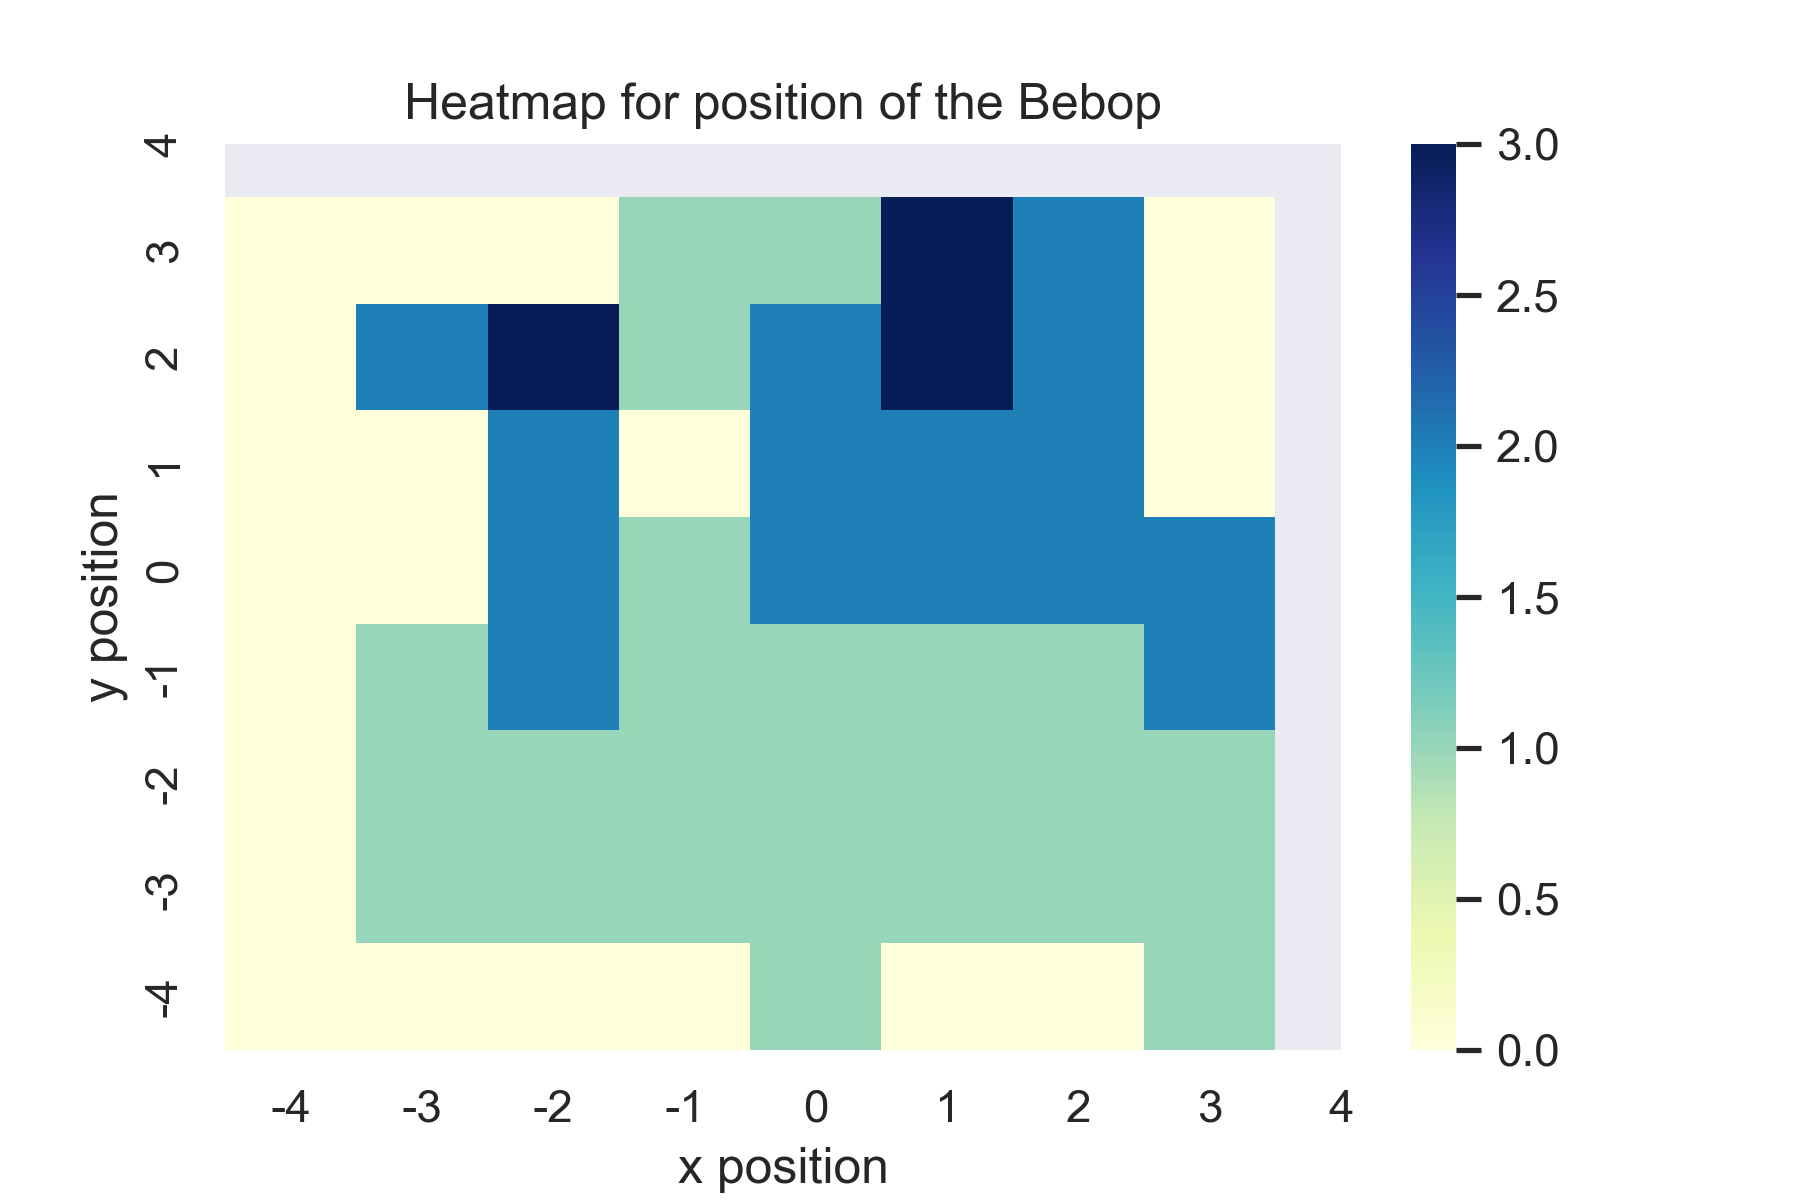
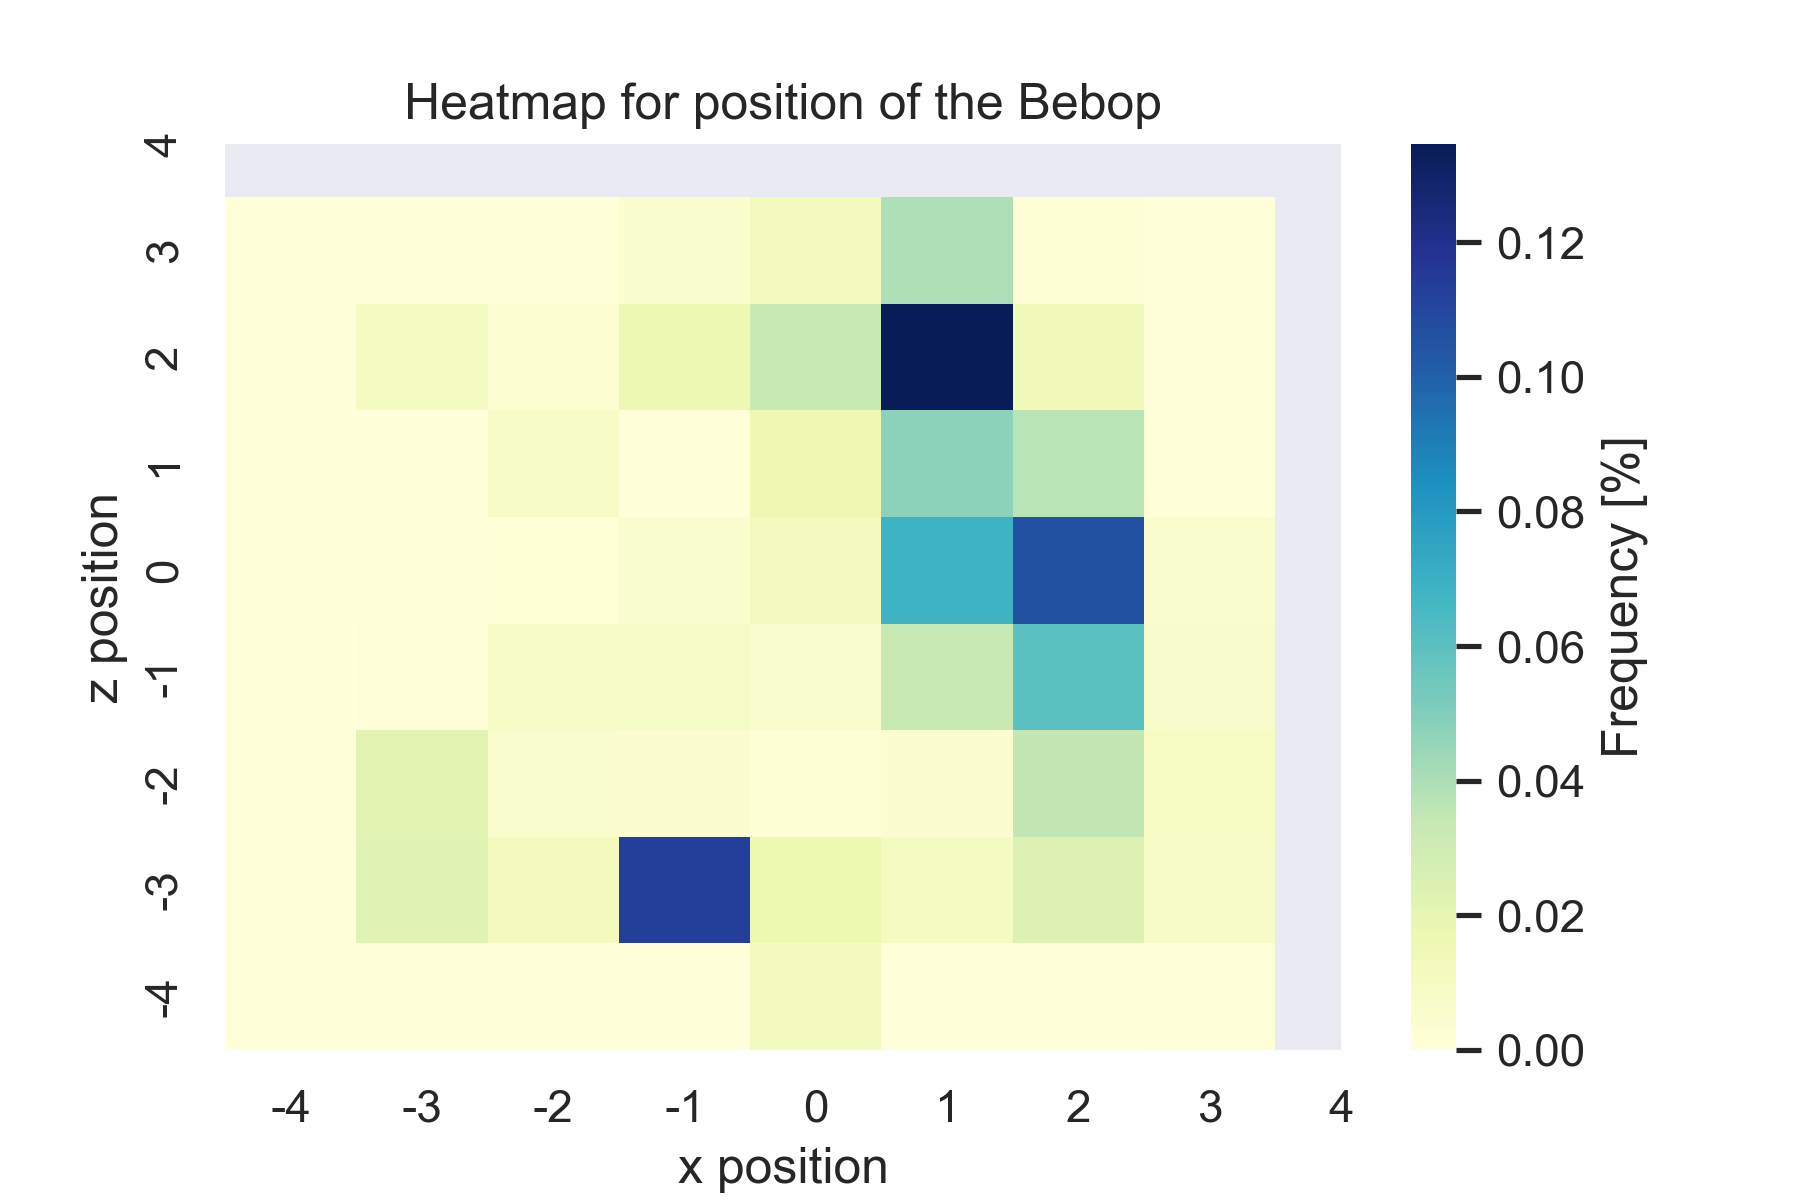
update axis labels and make position as frequency of total

diff --git a/Report code/plotTrajectory_V5.py b/Report code/plotTrajectory_V5.py
@@ -45,11 +45,13 @@ def discritizer_pos(pos_x,pos_z):
         m_indx = 0
         for m in range(-3,5):
             for i in range(len(pos_x)):
-                if (pos_x[i] < n and pos_z[i] < m) and (pos_x[i] > n-1 and pos_z[i] > m-1):
-                    grid_XY[n_indx,m_indx] = grid_XY[n,m] + 1
+                if (pos_x[i] < n and pos_z[i] < m) and (pos_x[i] >= n-1 and pos_z[i] >= m-1):
+                    grid_XY[n_indx,m_indx] = grid_XY[n_indx,m_indx] + 1
             m_indx = m_indx+1
         n_indx= n_indx+1
-
+    for n_indx in range(0,8):
+        for m_indx in range(0,8):
+            grid_XY[n_indx,m_indx] = grid_XY[n_indx,m_indx] / len(pos_x)
     return grid_XY            
 
 def parallel_handler(pos_x, pos_z, time, n, m):
@@ -66,7 +68,7 @@ def parallel_handler(pos_x, pos_z, time, n, m):
             velo = velo + velocity
             grid_count +=  1
     if velo!=0:
-        velo_AVG = velo / grid_count
+        velo_AVG = (velo / grid_count)*100
     else:
         velo_AVG = 0
     return  velo_AVG
@@ -107,7 +109,7 @@ def discritizer_vel(pos_x, pos_z, time):
 
 def main():
     #settings
-    save_on = False
+    save_on = True
     plot_on = True
     #read data
     pos_x, pos_z, time = load_position("group_2.csv")
@@ -131,11 +133,11 @@ def main():
         x_axis_labels = [-4,-3,-2,-1,0,1,2,3,4]
         y_axis_labels = [-4,-3,-2,-1,0,1,2,3,4]    
         plt.figure()   
-        ax = sns.heatmap(data, cmap="YlGnBu", xticklabels=x_axis_labels, yticklabels=y_axis_labels)
+        ax = sns.heatmap(data, cmap="YlGnBu", xticklabels=x_axis_labels, yticklabels=y_axis_labels,  cbar_kws={'label': 'Frequency [%]'})
         ax.invert_yaxis()
         plt.title("Heatmap for position of the Bebop")
         plt.xlabel("x position")
-        plt.ylabel("y position")
+        plt.ylabel("z position")
         plt.savefig("Heatmap_position.png", dpi=300)
 
     # Velocity
@@ -153,12 +155,15 @@ def main():
         x_axis_labels = [-4,-3,-2,-1,0,1,2,3,4]
         y_axis_labels = [-4,-3,-2,-1,0,1,2,3,4]
         plt.figure()
-        ax2 = sns.heatmap(data, cmap="YlGnBu",xticklabels=x_axis_labels, yticklabels=y_axis_labels)
+        ax2 = sns.heatmap(data, cmap="YlGnBu",xticklabels=x_axis_labels, yticklabels=y_axis_labels, cbar_kws={'label': 'Speed [m/s]'})
         ax2.invert_yaxis()
-
+        ax2.legend(["test"])
+        # lgd = Legend(col_fun = col_fun, title = "foooooooo", title_position = "lefttop-rot",
+                     # legend_height = unit(4, "cm"))
         plt.title("Heatmap for the average speed of the Bebop")
         plt.xlabel("x position")
-        plt.ylabel("y position")
+        plt.ylabel("z position")
+        # plt.legend(["Average speed [m/s]"], loc ="lower right")
         plt.savefig("Heatmap_velocity.png", dpi=300)
     
 if __name__ == "__main__":
